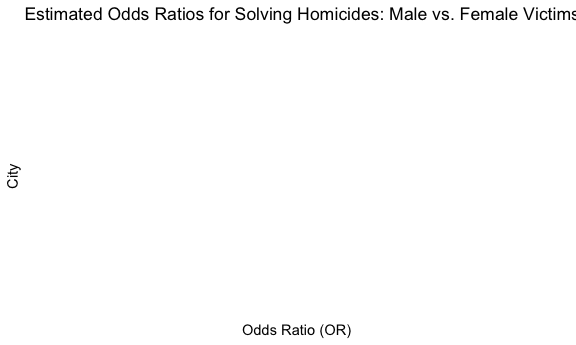
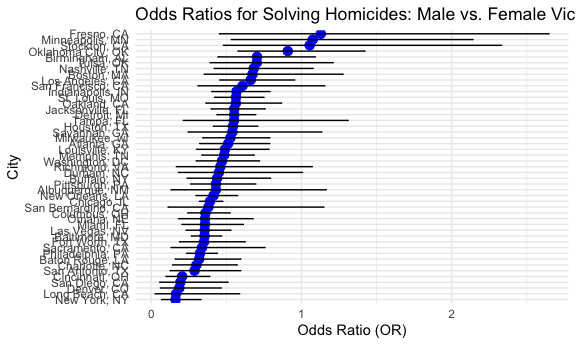
troubleshooting plotting issues

diff --git a/p8105_hw6_tp2879.md b/p8105_hw6_tp2879.md
@@ -21,8 +21,6 @@ library(purrr)
 
 # Problem 2
 
-Importing and cleaning the data.
-
 ``` r
 homicide_data = read.csv(file = "./data/homicide-data.csv") |> 
   janitor::clean_names() |> 
@@ -35,8 +33,6 @@ homicide_data = read.csv(file = "./data/homicide-data.csv") |>
     victim_race %in% c("White", "Black"),
     !city_state %in% c("Dallas, TX", "Phoenix, AZ", "Kansas City, MO,", "Tulsa, AL"))
 ```
-
-Fitting the logistic regression model
 
 ``` r
 baltimore_data = homicide_data |> 
@@ -78,7 +74,7 @@ tidy_model = tidy(baltimore_logistic, conf.int = TRUE)
 
 ``` r
 sex_coef = tidy_model |> 
-  filter(term == "sexMale")
+  filter(term == "victim_sexMale")
 ```
 
 ``` r
@@ -99,23 +95,23 @@ results = homicide_data |>
 ```
 
 ``` r
-odds_ratios = results |> 
+results = results |> 
   unnest(tidy_model) |> 
-  filter(term == "sexMale") |> 
+  filter(term == "victim_sexMale") |> 
   mutate(
     odds_ratio = exp(estimate),
     confidence_lower = exp(conf.low),
     confidence_upper = exp(conf.high)
   ) |> 
-  select(city_state, odds_ratio, confidence_lower, confidence_upper)
+  filter(!is.na(odds_ratio) & !is.na(confidence_lower) & !is.na(confidence_upper))
 ```
 
 ``` r
-ggplot(odds_ratios, aes(x = odds_ratio, y = reorder(city_state, odds_ratio))) +
+ggplot(results, aes(x = odds_ratio, y = reorder(city_state, odds_ratio))) +
   geom_point(size = 3, color = "blue") +
-  geom_errorbarh(aes(xmin = confidence_lower, xmax = confidence_upper), height = 0.2, color = "black") +
+  geom_errorbarh(aes(xmin = confidence_lower, xmax= confidence_upper), height = 0.2, color = "black") +
   labs(
-    title = "Estimated Odds Ratios for Solving Homicides: Male vs. Female Victims",
+    title = "Odds Ratios for Solving Homicides: Male vs. Female Victims",
     x = "Odds Ratio (OR)", 
     y = "City")
 ```
@@ -281,3 +277,66 @@ summary(interaction_model)
     ## Residual standard error: 287.7 on 4334 degrees of freedom
     ## Multiple R-squared:  0.6849, Adjusted R-squared:  0.6844 
     ## F-statistic:  1346 on 7 and 4334 DF,  p-value: < 2.2e-16
+
+``` r
+k_folds = 10
+
+set.seed(123)
+indices = sample(1:nrow(birthweight_data))
+folds = split(indices, cut(1:length(indices), k_folds, labels = FALSE))
+```
+
+``` r
+full_model = function(train_data) {
+  lm(bwt ~ blength + bhead + babysex + momage + ppbmi + smoken + wtgain + gaweeks + malform + fincome, data = train_data)
+}
+
+simplified_model = function(train_data) {
+  lm(bwt ~ blength + gaweeks, data = train_data)
+}
+
+interaction_model = function(train_data) {
+  lm(bwt ~ bhead * blength * babysex, data = train_data)
+}
+```
+
+``` r
+calc_rmse = function(model_func, fold_idx) {
+  test_indices = folds[[fold_idx]]
+  train_data = birthweight_data[-test_indices, ]
+  test_data = birthweight_data[test_indices, ]
+  
+  model = model_func(train_data)
+  
+  predictions = predict(model, newdata = test_data)
+  
+  rmse = sqrt(mean((test_data$bwt - predictions)^2))
+  
+  return(rmse)
+}
+```
+
+``` r
+full_model_rmse = map_dbl(1:k_folds, ~ calc_rmse(full_model, .))
+
+simplified_model_rmse = map_dbl(1:k_folds, ~ calc_rmse(simplified_model, .))
+
+interaction_model_rmse = map_dbl(1:k_folds, ~ calc_rmse(interaction_model, .))
+```
+
+``` r
+model_comparison = tibble(
+  model = c("Full Model", "Simplified Model", "Interaction Model"),
+  mean_rmse = c(mean(full_model_rmse), mean(simplified_model_rmse), mean(interaction_model_rmse)),
+  sd_rmse = c(sd(full_model_rmse), sd(simplified_model_rmse), mean(interaction_model_rmse))
+)
+
+print(model_comparison)
+```
+
+    ## # A tibble: 3 × 3
+    ##   model             mean_rmse sd_rmse
+    ##   <chr>                 <dbl>   <dbl>
+    ## 1 Full Model             281.    12.2
+    ## 2 Simplified Model       333.    22.6
+    ## 3 Interaction Model      289.   289.
